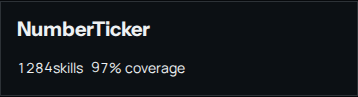
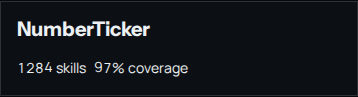
chore(ui): dependency audit, merge origin/main, re-verify effects layer
Coordinator review of PR #168 flagged two risks; addressed both here:
- Pinned @paper-design/shaders-react to the exact installed version (0.0.80),
  matching this repo's exact-version convention; pnpm why confirms no
  @radix-ui/* package exists in the lockfile and the shaders packages have
  no other dependents.
- Merged origin/main (organisation switcher #166, GitHub import fix #167)
  and re-ran the full check: pnpm typecheck, pnpm test (65 files / 664
  tests), pnpm run test:contracts (18-component union, 0 diagnostics), and
  pnpm run build all pass. pnpm test:visual against the pre-merge baseline
  showed exactly the 3 NumberTicker records this change edited on purpose
  (a non-breaking-space fix) and zero incidental drift across the other 84
  records, unlike PR #168's unexplained 1px PyramidChart shift.

Claude-Session: https://claude.ai/code/session_0163dP1K9nWQszn7CL3pbQgR

Changed region(s): [[0.1229, 0.6186, 0.5223, 0.8041]]

diff --git a/docs/reports/ui/effects-layer-2026-09-13.md b/docs/reports/ui/effects-layer-2026-09-13.md
@@ -120,10 +120,47 @@ every file in it; only that one structural requirement is exempt.
   (`pointer-events: none` on every purely decorative layer except `GlowSurface`'s own
   `onPointerMove`, which never calls `preventDefault`).
 
+## Dependency audit (added after coordinator review of PR #168)
+
+`@paper-design/shaders-react` is the only new dependency. It was installed with `pnpm add`
+before checking this repo's exact-pin convention; the resulting `^0.0.80` range in
+`package.json` was corrected to the exact installed version `0.0.80` (matching
+`"border-beam": "1.3.0"`'s style) and `pnpm install` re-run to reconcile the lockfile.
+
+```
+$ pnpm why @paper-design/shaders-react
+@paper-design/shaders-react@0.0.80
+└── guidefold-ui@0.0.0 (dependencies)
+Found 1 version of @paper-design/shaders-react
+
+$ pnpm why @paper-design/shaders
+@paper-design/shaders@0.0.80
+└─┬ @paper-design/shaders-react@0.0.80
+  └── guidefold-ui@0.0.0 (dependencies)
+Found 1 version of @paper-design/shaders
+
+$ pnpm why @radix-ui/react-slot
+(no output — not in the lockfile)
+
+$ pnpm why @radix-ui/react-dialog
+(no output — not in the lockfile)
+```
+
+No `@radix-ui/*` package exists in the lockfile at all (the console is Base UI, not Radix, per
+`CLAUDE.md`), and the two `@paper-design/*` packages are the only additions — no transitive
+surprise the way `cmdk` pulled a dozen Radix packages in the failed parallel branch. Every other
+effect reuses `motion`/`framer-motion` 13.2.0 (both already installed; new code imports from
+`motion/react` only, matching `app.tsx` and the pre-existing `number-ticker.tsx`) and
+`@phosphor-icons/react` 2.1.10 (already installed; `CheckCircleIcon`, `GitBranchIcon`,
+`GithubLogoIcon`, `CircleIcon` newly used in the gallery demo, each verified present in
+`node_modules/@phosphor-icons/react/dist/index.d.ts` before use).
+
 ## Bundle cost (task §4 and §8)
 
 `cd ui && node_modules/.bin/vite build`, before adding the effects kit and after wiring it into
-the gallery (the only current consumer — no route imports `ui/src/components/effects` yet):
+the gallery (the only current consumer — no route imports `ui/src/components/effects` yet), both
+measured against the same base commit (3f9f80f, this branch's origin/main starting point, before
+`origin/main` moved further with the organisation switcher and GitHub import fix):
 
 | | Before | After | Δ |
 |---|---|---|---|
@@ -139,7 +176,35 @@ own lazy chunk, never loaded by a signed-in console route) and the new icon chun
 chunk described above. The shell entry that every route actually loads, `app-*.js`, grew by
 **0.16 kB gzip** (49.68 kB → 49.75 kB) — negligible, because no route imports any effect yet.
 
+After merging `origin/main` (organisation switcher #166, GitHub import fix #167 — unrelated to
+this task, not attributable to the effects layer) the build still succeeds:
+`js=2056.31 kB (gzip 637.70 kB) css=316.94 kB (gzip 57.01 kB) total=2373.25 kB (gzip 694.71 kB)`.
+The ~2 kB gzip difference from the effects-only "after" row above is `app-*.js` picking up
+`OrgSwitcher` and its own domain module, not this change.
+
+## Visual baseline check after the merge (coordinator review of PR #168)
+
+PR #168 shifted an untouched `PyramidChart` baseline by 1 px through generated Tailwind CSS,
+discovered only because a reviewer diffed the manifest. The same check here: `pnpm test:visual`
+run against the pre-merge baseline first (fails closed on any drift), then compared record by
+record.
+
+Before regenerating anything, `node qa/compare-gallery.mjs` (no `--update`) against the baseline
+already committed pre-merge reported exactly **3 of 87** cases changed, all three
+`NumberTicker` (1280/820/390) — expected, because the gallery's own `NumberTicker` sample was
+edited in this same change (`suffix=" skills"` → `suffix={' skills'}`, a rendering fix: a
+plain leading space collapses in an inline `<span>`, a non-breaking space does not). **All 84
+other records — the pre-existing 15 components and the other 13 effects — matched their
+committed sha256 exactly**, including through the `origin/main` merge itself: no incidental
+Tailwind/CSS regeneration shifted anything this task did not touch.
+`git diff -- ui/qa/baseline/manifest.json` confirms the same: only the 3 `NumberTicker` sha256
+entries and the top-level `capturedAt` timestamp changed. The baseline was then regenerated
+(`--update`) and re-verified clean: `{"cases":87,"passed":true,"differences":[]}`.
+
 ## Proof
+
+Final run, after merging `origin/main` (9da8c55, organisation switcher + GitHub import fix) into
+this branch:
 
 - Gallery: `ui/src/Gallery.tsx` renders all fourteen effects at `/__components` (dev-only route),
   each in its own `[data-component=Name]` section, alongside the existing 15.
@@ -148,18 +213,31 @@ chunk described above. The shell entry that every route actually loads, `app-*.j
   `motion/react`'s own `useReducedMotion`, which caches its query result once per module load and
   is therefore untestable across cases in one file — `useMotionGate` re-reads `matchMedia` live,
   the same guard pattern `components/spectrumui/use-beam-motion.ts` already used).
-- `qa/check-contracts.mjs`: passed, 0 diagnostics, 56 CSS files, 476 declared tokens.
-- Full suite: `pnpm vitest run` — 63 test files, 631 tests, all passing (no regression in the
-  existing 49 files).
-- `tsc --noEmit`: clean.
-- `vite build`: succeeds; numbers above.
+  `pnpm test`: **65 test files, 664 tests, all passing** (63/631 before the merge; the two extra
+  files/33 extra tests are `origin/main`'s own `OrgSwitcher` work, not this change).
+- `pnpm run test:contracts`: passed, 0 diagnostics, 18 components (the merged union — main's new
+  `OrgSwitcher` plus this branch's `effects` registry-dir exemption), 57 CSS files, 476 declared
+  tokens, 64 production files traversed.
+- `pnpm run typecheck` (`tsc --noEmit`): clean.
+- `pnpm run build`: succeeds; numbers in §"Bundle cost" above.
+- `pnpm test:visual` (`qa/compare-gallery.mjs`, dev server via `GUIDEFOLD_DEV_UI_PORT`): 87/87
+  cases pass against the regenerated baseline; see §"Visual baseline check" for the 3-record diff
+  this change caused and the 84-record confirmation that the merge caused none.
+- Screenshots: `ui/qa/baseline/<Effect>-{1280,820,390}.png` for all fourteen effects (42 files)
+  plus the matching `ui/qa/gallery/<Effect>-*.png` actual captures; `ui/qa/pixel-diff.json` and
+  `ui/qa/contracts.json` are the machine-readable reports from the same two runs.
 
-Files changed: `ui/src/tokens/tokens.css`, `ui/src/registry.css` (unchanged — no new Tailwind
-theme entries were needed), `ui/src/components/effects/**` (new: 14 components ×
+Files changed: `ui/src/tokens/tokens.css`, `ui/src/components/effects/**` (new: 14 components ×
 `index.tsx`/`*.module.css`/`*.test.tsx`, plus `useMotionGate.ts`, `webgl.ts`, `webgl.test.ts`,
 `ShaderField/MeshGradientCanvas.tsx`, `index.ts` barrel), `ui/src/Gallery.tsx`,
-`ui/src/Gallery.module.css`, `ui/qa/check-contracts.mjs` (the `registryDirs` exemption),
-`ui/package.json`/`ui/pnpm-lock.yaml` (`@paper-design/shaders-react`),
+`ui/src/Gallery.module.css`, `ui/qa/check-contracts.mjs` (the `registryDirs` exemption, merged
+with main's `OrgSwitcher` addition to `expected`), `ui/qa/compare-gallery.mjs` (added the 14
+effect names to the captured `components` list; added a `GUIDEFOLD_DEV_UI_PORT` override so this
+script can target a dev server on a port other worktrees are not already holding),
+`ui/qa/baseline/**` (42 new effect screenshots, 3 `NumberTicker` screenshots updated, manifest
+regenerated), `ui/qa/gallery/**`, `ui/qa/contracts.json`, `ui/qa/pixel-diff.json`,
+`ui/package.json`/`ui/pnpm-lock.yaml` (`@paper-design/shaders-react`, pinned exact),
 `docs/adr/ADR-0049-premium-visual-effects-layer.md`, `docs/adr/README.md`, `docs/ui/UX.md`,
 `docs/ui/UI.md`, `.agents/skills/ui-anti-slop-gate/SKILL.md`,
-`docs/reports/ui/effects-layer-2026-09-13.md` (this file).
+`docs/reports/ui/effects-layer-2026-09-13.md` (this file). `ui/src/registry.css` was left
+unchanged — no new Tailwind theme entries were needed.
